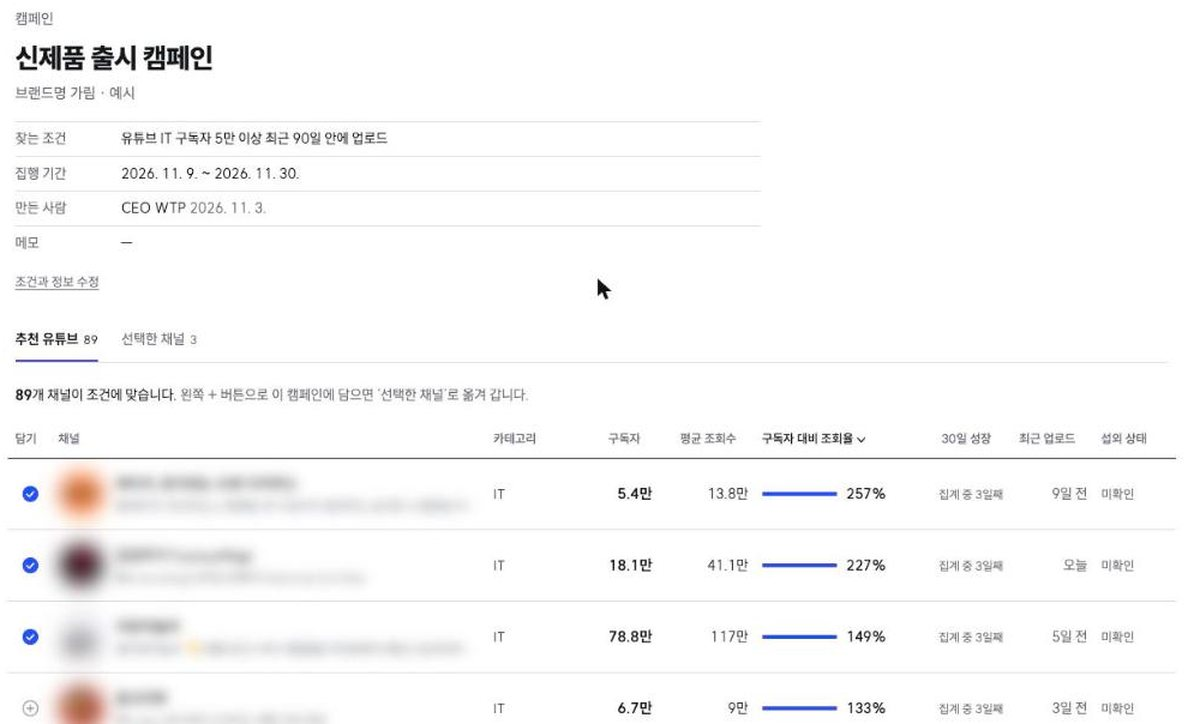
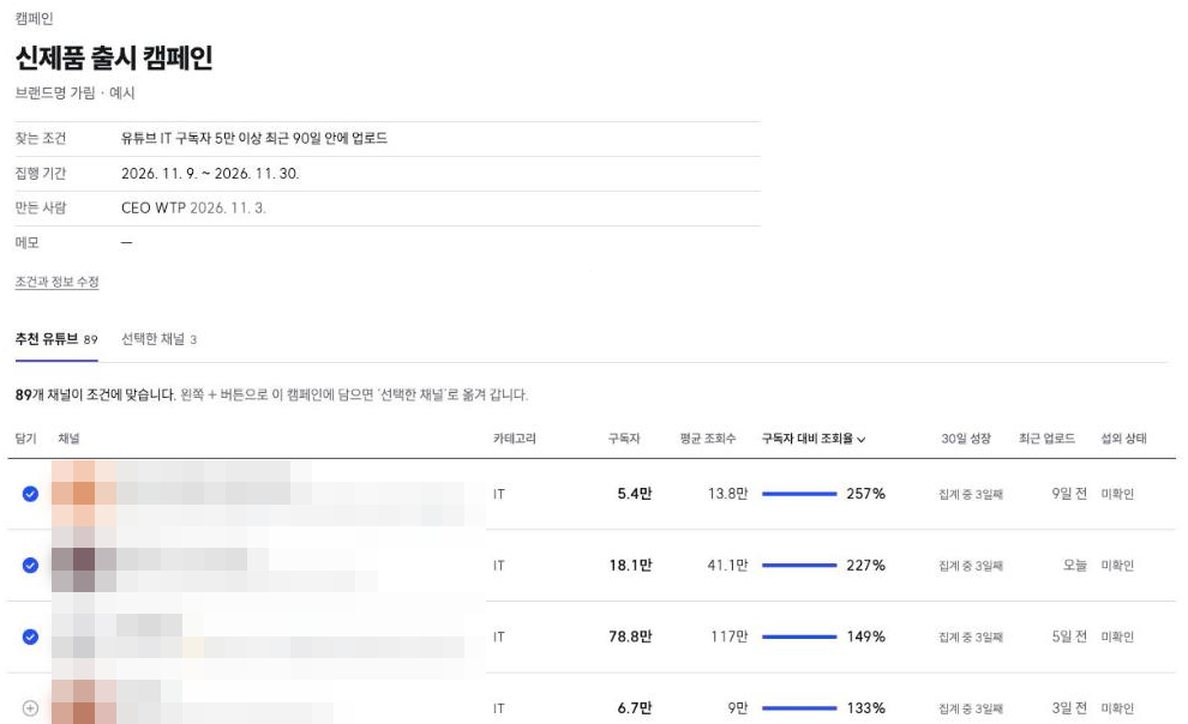
검수 반영(인사이트): 새 틀 링크 규칙 우선순위 낮춤(극장·기업 글 링크 색·밑줄 되살림) · 새 틀 쪽 실시간 상담 풍선 숨김 · 갈 칸 없는 「문의 칸으로」 숨김 · 극장 main 겹침 · 칼럼 머리글·아래 바 버튼을 글 아래 상자와 같은 곳으로 · 위플루언서 캡처 채널 칸 모자이크·커서 지움

diff --git a/components/guide/GuideArticle.tsx b/components/guide/GuideArticle.tsx
@@ -1,5 +1,6 @@
 import Link from "next/link"
 import { DocShell, Crumb } from "@/components/shortform/DocParts"
+import { BIZ_CTA } from "@/components/shortform/SiteChrome"
 import { Icon } from "@/components/shortform/icons"
 import RelatedArticles from "@/components/guide/RelatedArticles"
 
@@ -70,7 +71,7 @@ export default function GuideArticle({
 }) {
   // 2026-11-05 사장님 「인사이트도 새 디자인으로」 — 껍데기(머리글·첫 칸·글 아래 상자·바닥글)만 회사 홈 새 디자인으로. 본문·주소·구조화 데이터는 그대로
   return (
-    <DocShell>
+    <DocShell cta={cta ? { href: cta.href, label: cta.label } : BIZ_CTA}>
       <section className="dp-hero gd-hero" aria-label="글 머리">
         <div className="dp-w gd-hero-in">
           <Crumb items={[{ name: "홈", href: "/" }, { name: "마케팅 칼럼", href: "/guide" }]} />

diff --git a/components/shortform/Works.tsx b/components/shortform/Works.tsx
@@ -44,7 +44,7 @@ export const WORKS: Record<string, Works> = {
   },
   infl: {
     lead: "섭외는 저희가 직접 만든 플랫폼 위플루언서에서 조건에 맞는 채널을 구독자·평균 조회수·조회율로 골라 시작합니다. 아래 사진은 저희가 직접 운영하는 맛집 채널 @matzip_town(팔로워 5.1만, 2026. 11. 4. 기준)에 올라간 것입니다.",
-    tag: "실제 화면 · 채널 이름·브랜드명 가림",
+    tag: "섭외 플랫폼 실제 화면(채널·브랜드명 가림) · 직접 운영 채널 @matzip_town",
     items: [
       { img: "/sf/ex/wipl-campaign.jpg", w: 1188, h: 724, cap: "위플루언서 캠페인 화면: 조건에 맞는 유튜브 채널 89곳을 조회율 순으로", wide: true },
       { img: "/sf/pf/m1.jpg", w: 450, h: 800, cap: "뚝배기 갈비찜", reel: true },

diff --git a/components/ChatWidget.tsx b/components/ChatWidget.tsx
@@ -20,7 +20,7 @@ export default function ChatWidget() {
   // 제휴사 명의 랜딩(/luke)에서는 위즈 카카오채널 위젯 숨김 — 명의 일관성 + 유입 추적 보호
   if (pathname?.startsWith("/luke")) return null
   // 홈(숏폼형)과 리뉴얼 새 쪽(2026-11-04)은 아래 고정 바·문의 칸에 카카오톡 상담이 따로 있어 떠 있는 버튼을 숨긴다
-  if (pathname === "/" || /^\/(services|solutions|team|about)(\/|$)/.test(pathname || "")) return null
+  if (pathname === "/" || /^\/(services|solutions|team|about|contact|guide|theater|business\/insights)(\/|$)/.test(pathname || "")) return null
   const locale = pathname?.startsWith("/zh") ? "zh" : pathname?.startsWith("/vi") ? "vi" : pathname === "/en" || pathname?.startsWith("/en/") ? "en" : "ko"
   const label = CHAT_LABELS[locale]
 

diff --git a/app/(ko)/theater/ep4-doorless-shop/page.tsx b/app/(ko)/theater/ep4-doorless-shop/page.tsx
@@ -63,7 +63,7 @@ export default function Page() {
     <DocShell>
     <div className="flex flex-col bg-[#070b14]">
       <script type="application/ld+json" dangerouslySetInnerHTML={{ __html: JSON.stringify(videoJsonLd) }} />
-      <main className="flex-1">
+      <div className="flex-1">
         <section className="container mx-auto max-w-3xl px-4 py-14 md:px-6 md:py-20">
           <Link href="/theater" className="inline-flex items-center gap-1 text-sm text-slate-400 transition-colors hover:text-[#00e5a0]">
             <ChevronLeft className="h-4 w-4" /> 위즈 극장
@@ -184,7 +184,7 @@ export default function Page() {
             </Link>
           </div>
         </section>
-      </main>
+      </div>
     </div>
     </DocShell>
   )

diff --git a/app/(ko)/theater/ep7-toll-gate/page.tsx b/app/(ko)/theater/ep7-toll-gate/page.tsx
@@ -63,7 +63,7 @@ export default function Page() {
     <DocShell>
     <div className="flex flex-col bg-[#070b14]">
       <script type="application/ld+json" dangerouslySetInnerHTML={{ __html: JSON.stringify(videoJsonLd) }} />
-      <main className="flex-1">
+      <div className="flex-1">
         <section className="container mx-auto max-w-3xl px-4 py-14 md:px-6 md:py-20">
           <Link href="/theater" className="inline-flex items-center gap-1 text-sm text-slate-400 transition-colors hover:text-[#00e5a0]">
             <ChevronLeft className="h-4 w-4" /> 위즈 극장
@@ -189,7 +189,7 @@ export default function Page() {
             </Link>
           </div>
         </section>
-      </main>
+      </div>
     </div>
     </DocShell>
   )

diff --git a/app/(ko)/theater/ep1-closed-door/page.tsx b/app/(ko)/theater/ep1-closed-door/page.tsx
@@ -63,7 +63,7 @@ export default function Page() {
     <DocShell>
     <div className="flex flex-col bg-[#070b14]">
       <script type="application/ld+json" dangerouslySetInnerHTML={{ __html: JSON.stringify(videoJsonLd) }} />
-      <main className="flex-1">
+      <div className="flex-1">
         <section className="container mx-auto max-w-3xl px-4 py-14 md:px-6 md:py-20">
           <Link href="/theater" className="inline-flex items-center gap-1 text-sm text-slate-400 transition-colors hover:text-[#00e5a0]">
             <ChevronLeft className="h-4 w-4" /> 위즈 극장
@@ -184,7 +184,7 @@ export default function Page() {
             </p>
           </div>
         </section>
-      </main>
+      </div>
     </div>
     </DocShell>
   )

diff --git a/app/(ko)/theater/ep2-half-open-door/page.tsx b/app/(ko)/theater/ep2-half-open-door/page.tsx
@@ -63,7 +63,7 @@ export default function Page() {
     <DocShell>
     <div className="flex flex-col bg-[#070b14]">
       <script type="application/ld+json" dangerouslySetInnerHTML={{ __html: JSON.stringify(videoJsonLd) }} />
-      <main className="flex-1">
+      <div className="flex-1">
         <section className="container mx-auto max-w-3xl px-4 py-14 md:px-6 md:py-20">
           <Link href="/theater" className="inline-flex items-center gap-1 text-sm text-slate-400 transition-colors hover:text-[#00e5a0]">
             <ChevronLeft className="h-4 w-4" /> 위즈 극장
@@ -193,7 +193,7 @@ export default function Page() {
             </p>
           </div>
         </section>
-      </main>
+      </div>
     </div>
     </DocShell>
   )

diff --git a/app/(ko)/theater/ep3-invisible-wall/page.tsx b/app/(ko)/theater/ep3-invisible-wall/page.tsx
@@ -63,7 +63,7 @@ export default function Page() {
     <DocShell>
     <div className="flex flex-col bg-[#070b14]">
       <script type="application/ld+json" dangerouslySetInnerHTML={{ __html: JSON.stringify(videoJsonLd) }} />
-      <main className="flex-1">
+      <div className="flex-1">
         <section className="container mx-auto max-w-3xl px-4 py-14 md:px-6 md:py-20">
           <Link href="/theater" className="inline-flex items-center gap-1 text-sm text-slate-400 transition-colors hover:text-[#00e5a0]">
             <ChevronLeft className="h-4 w-4" /> 위즈 극장
@@ -189,7 +189,7 @@ export default function Page() {
             </p>
           </div>
         </section>
-      </main>
+      </div>
     </div>
     </DocShell>
   )

diff --git a/app/(ko)/theater/ep5-unread-invitation/page.tsx b/app/(ko)/theater/ep5-unread-invitation/page.tsx
@@ -63,7 +63,7 @@ export default function Page() {
     <DocShell>
     <div className="flex flex-col bg-[#070b14]">
       <script type="application/ld+json" dangerouslySetInnerHTML={{ __html: JSON.stringify(videoJsonLd) }} />
-      <main className="flex-1">
+      <div className="flex-1">
         <section className="container mx-auto max-w-3xl px-4 py-14 md:px-6 md:py-20">
           <Link href="/theater" className="inline-flex items-center gap-1 text-sm text-slate-400 transition-colors hover:text-[#00e5a0]">
             <ChevronLeft className="h-4 w-4" /> 위즈 극장
@@ -190,7 +190,7 @@ export default function Page() {
             </p>
           </div>
         </section>
-      </main>
+      </div>
     </div>
     </DocShell>
   )

diff --git a/app/(ko)/theater/ep6-picky-guests/page.tsx b/app/(ko)/theater/ep6-picky-guests/page.tsx
@@ -63,7 +63,7 @@ export default function Page() {
     <DocShell>
     <div className="flex flex-col bg-[#070b14]">
       <script type="application/ld+json" dangerouslySetInnerHTML={{ __html: JSON.stringify(videoJsonLd) }} />
-      <main className="flex-1">
+      <div className="flex-1">
         <section className="container mx-auto max-w-3xl px-4 py-14 md:px-6 md:py-20">
           <Link href="/theater" className="inline-flex items-center gap-1 text-sm text-slate-400 transition-colors hover:text-[#00e5a0]">
             <ChevronLeft className="h-4 w-4" /> 위즈 극장
@@ -191,7 +191,7 @@ export default function Page() {
             </p>
           </div>
         </section>
-      </main>
+      </div>
     </div>
     </DocShell>
   )

diff --git a/app/(ko)/theater/page.tsx b/app/(ko)/theater/page.tsx
@@ -33,7 +33,7 @@ export default function Page() {
     <DocShell>
     <div className="flex flex-col bg-[#070b14]">
       <script type="application/ld+json" dangerouslySetInnerHTML={{ __html: JSON.stringify(jsonLd) }} />
-      <main className="flex-1">
+      <div className="flex-1">
         {/* 극장 헤더 */}
         <section className="relative overflow-hidden py-16 md:py-24">
           <div className="geo-grid-bg absolute inset-0 opacity-40" />
@@ -114,7 +114,7 @@ export default function Page() {
             </p>
           </div>
         </section>
-      </main>
+      </div>
     </div>
     </DocShell>
   )

diff --git a/components/business/BizArticle.tsx b/components/business/BizArticle.tsx
@@ -2,9 +2,10 @@ import Link from "next/link"
 import { relatedBizArticles } from "@/lib/business-articles"
 import { DocShell, Crumb } from "@/components/shortform/DocParts"
 import { Icon } from "@/components/shortform/icons"
+import { BIZ_CTA } from "@/components/shortform/SiteChrome"
 
 /** 기업 경로 신청 버튼 — 머리글·아래 바도 제안 요청으로(무료 상담 신청 ✕ · CLAUDE.md 기업 경로 정책) */
-export const BIZ_CTA = { href: "/business/contact", label: "제안 요청 보내기" }
+export { BIZ_CTA }
 
 export { CheckItem, Callout } from "@/components/guide/GuideArticle"
 
